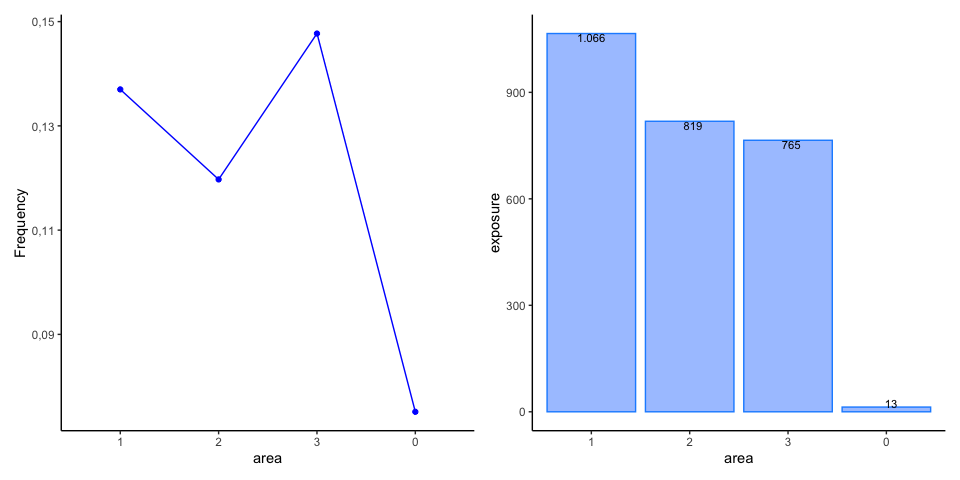
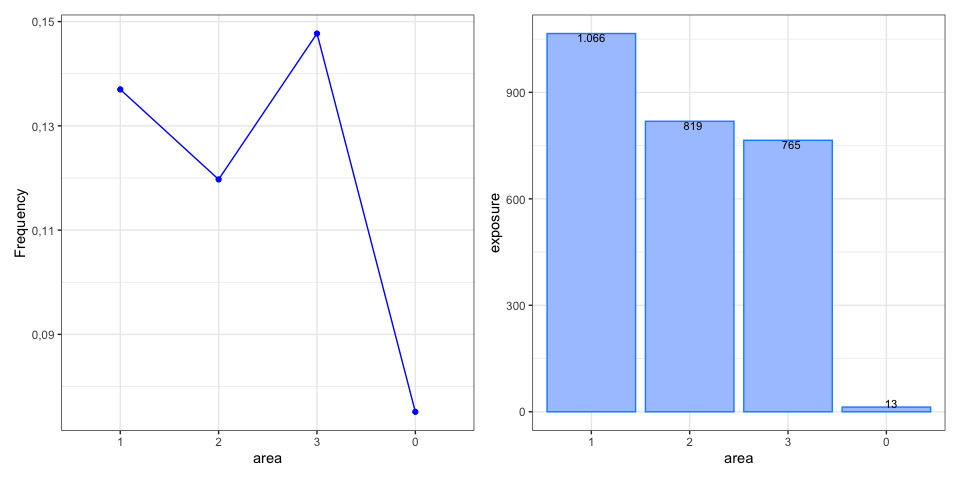
bug fix in construct model points

diff --git a/README.md b/README.md
@@ -297,11 +297,11 @@ tests almost always yield significant results for the distribution of
 residuals and visual inspections (e.g. Q-Q plots) are preferable.
 
 ``` r
-check_residuals(model_freq1, n_simulations = 1000) |>
+check_residuals(model_freq1, n_simulations = 600) |>
   autoplot()
 ```
 
-    ## [32mOK: residuals appear as from the expected distribution (p = 0.362).[39m
+    ## [32mOK: residuals appear as from the expected distribution (p = 0.271).[39m
 
 ![](man/figures/normalitysim-1.png)<!-- -->
 
@@ -309,7 +309,7 @@ It might happen that in the fitted model for a data point all
 simulations have the same value (e.g. zero), this returns the error
 message *Error in approxfun: need at least two non-NA values to
 interpolate*. If that is the case, it could help to increase the number
-of simulations (e.g. $n = 1000$).
+of simulations.
 
 ## Example 2
 
@@ -404,8 +404,8 @@ also the order of the plots. The following plots are available:
 For example, to show the exposure and claim frequency plots:
 
 ``` r
-un <- univariate(MTPL2, x = area, nclaims = nclaims, exposure = exposure) 
-autoplot(un, show_plots = c(6,1))
+univariate(MTPL2, x = area, nclaims = nclaims, exposure = exposure) |>
+  autoplot(show_plots = c(6,1))
 ```
 
 ![](man/figures/example7-1.png)<!-- -->
@@ -413,12 +413,10 @@ autoplot(un, show_plots = c(6,1))
 To check whether claim frequency is consistent over the years:
 
 ``` r
-df <- MTPL2 |>
-  mutate(year = sample(2016:2019, nrow(MTPL2), replace = TRUE)) 
-
-un <- univariate(df, x = area, nclaims = nclaims, 
-           exposure = exposure, by = year) 
-autoplot(un, show_plots = 1)
+MTPL2 |>
+  mutate(year = sample(2016:2019, nrow(MTPL2), replace = TRUE)) |>
+  univariate(x = area, nclaims = nclaims, exposure = exposure, by = year) |>
+  autoplot(show_plots = 1)
 ```
 
 ![](man/figures/unnamed-chunk-3-1.png)<!-- -->
@@ -462,7 +460,7 @@ The following graph shows some more options:
 univariate(MTPL2, x = area, nclaims = nclaims, exposure = exposure) |>
   autoplot(show_plots = c(6,1), background = FALSE, sort = TRUE, ncol = 2, 
            color_bg = "dodgerblue", color = "blue", 
-           custom_theme = ggplot2::theme_classic())
+           custom_theme = ggplot2::theme_bw())
 ```
 
 ![](man/figures/example11-1.png)<!-- -->
@@ -719,35 +717,63 @@ premiums3 <- model_data(burn_restricted3) |>
 head(premiums3)
 ```
 
-    ##    age_policyholder age_policyholder_freq_cat_smooth age_policyholder_smooth
-    ##               <int>                            <num>                  <char>
-    ## 1:               18                         2.311122                 [18,23]
-    ## 2:               18                         2.311122                 [18,23]
-    ## 3:               18                         2.311122                 [18,23]
-    ## 4:               18                         2.311122                 [18,23]
-    ## 5:               19                         2.311122                 [18,23]
-    ## 6:               19                         2.311122                 [18,23]
-    ##    nclaims   exposure amount power    bm    zip age_policyholder_freq_cat
-    ##      <int>      <num>  <num> <int> <int> <fctr>                    <fctr>
-    ## 1:       1 1.00000000 261777    40     3      3                   [18,25]
-    ## 2:       0 0.09589041      0    68     5      2                   [18,25]
-    ## 3:       0 0.18630137      0    37     3      2                   [18,25]
-    ## 4:       0 0.18904110      0    33     1      2                   [18,25]
-    ## 5:       0 1.00000000      0    47     6      3                   [18,25]
-    ## 6:       1 0.06849315   6642    68     1      3                   [18,25]
-    ##    pred_nclaims_mod_freq pred_amount_mod_sev   premium zip_restricted
-    ##                    <num>               <num>     <num>          <num>
-    ## 1:            0.26058660            67176.26 17505.233            1.2
-    ## 2:            0.02353816            74215.89  1746.905            1.0
-    ## 3:            0.04573127            68988.66  3154.939            1.0
-    ## 4:            0.04640379            64129.60  2975.857            1.0
-    ## 5:            0.26058660            74953.96 19531.999            1.2
-    ## 6:            0.01784840            62444.85  1114.540            1.2
-    ##    pred_premium_burn_restricted3
-    ##                            <num>
-    ## 1:                      24365.31
-    ## 2:                      21831.29
-    ## 3:                      20304.43
-    ## 4:                      18884.35
-    ## 5:                      27164.71
-    ## 6:                      22661.22
+    ##   age_policyholder age_policyholder_freq_cat_smooth age_policyholder_smooth
+    ## 1               18                         2.311122                 [18,23]
+    ## 2               18                         2.311122                 [18,23]
+    ## 3               18                         2.311122                 [18,23]
+    ## 4               18                         2.311122                 [18,23]
+    ## 5               19                         2.311122                 [18,23]
+    ## 6               19                         2.311122                 [18,23]
+    ##   nclaims   exposure amount power bm zip age_policyholder_freq_cat
+    ## 1       1 1.00000000 261777    40  3   3                   [18,25]
+    ## 2       0 0.09589041      0    68  5   2                   [18,25]
+    ## 3       0 0.18630137      0    37  3   2                   [18,25]
+    ## 4       0 0.18904110      0    33  1   2                   [18,25]
+    ## 5       0 1.00000000      0    47  6   3                   [18,25]
+    ## 6       1 0.06849315   6642    68  1   3                   [18,25]
+    ##   pred_nclaims_mod_freq pred_amount_mod_sev   premium zip_restricted
+    ## 1            0.26058660            67176.26 17505.233            1.2
+    ## 2            0.02353816            74215.89  1746.905            1.0
+    ## 3            0.04573127            68988.66  3154.939            1.0
+    ## 4            0.04640379            64129.60  2975.857            1.0
+    ## 5            0.26058660            74953.96 19531.999            1.2
+    ## 6            0.01784840            62444.85  1114.540            1.2
+    ##   pred_premium_burn_restricted3
+    ## 1                      24365.31
+    ## 2                      21831.29
+    ## 3                      20304.43
+    ## 4                      18884.35
+    ## 5                      27164.71
+    ## 6                      22661.22
+
+Or do the same with model points:
+
+``` r
+premiums4 <- model_data(burn_restricted3) |>
+  construct_model_points() |>
+  add_prediction(burn_restricted3)
+
+head(premiums4)
+```
+
+    ##   age_policyholder_smooth zip bm zip_restricted
+    ## 1                 (23,28]   1  1            0.9
+    ## 2                 (23,28]   1  2            0.9
+    ## 3                 (23,28]   1  3            0.9
+    ## 4                 (23,28]   1  4            0.9
+    ## 5                 (23,28]   1  5            0.9
+    ## 6                 (23,28]   1  6            0.9
+    ##   age_policyholder_freq_cat_smooth count  exposure
+    ## 1                         1.719606   414 342.57808
+    ## 2                         1.719606   173 145.25753
+    ## 3                         1.719606    53  46.53699
+    ## 4                         1.719606    26  22.31507
+    ## 5                         1.719606    54  46.78630
+    ## 6                         1.719606    71  65.13699
+    ##   pred_premium_burn_restricted3
+    ## 1                      12645.93
+    ## 2                      13112.79
+    ## 3                      13596.88
+    ## 4                      14098.85
+    ## 5                      14619.35
+    ## 6                      15159.07
